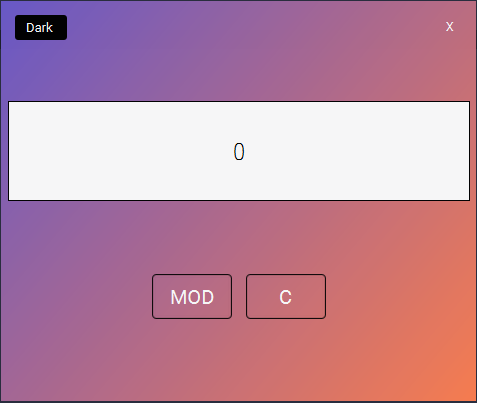
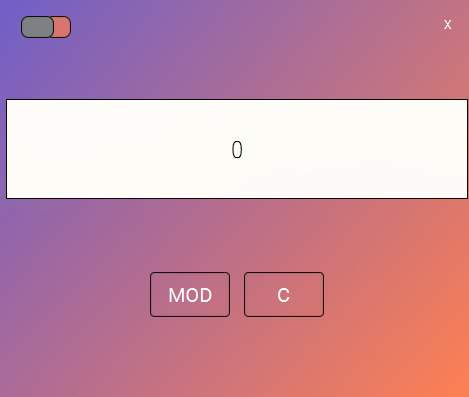
Toggle-switch added

diff --git a/src/modcalc/resources/style2.css b/src/modcalc/resources/style2.css
@@ -11,11 +11,19 @@
   -fx-font-family: "Roboto", sans-serif;
 }
 
-#Toggle.toggle-button {
-  -fx-background-color: transparent;
-  -fx-border-radius: 4;
-  -fx-text-fill: white;
-  -fx-font-family: "Roboto", sans-serif;
+#ToggleBackground {
+  -fx-arc-height: 15px;
+  -fx-arc-width: 15px;
+}
+
+#ToggleBackground2 {
+  -fx-arc-height: 15px;
+  -fx-arc-width: 15px;
+}
+
+#ToggleButton {
+  -fx-arc-height: 15px;
+  -fx-arc-width: 15px;
 }
 
 #Result.label {
@@ -58,8 +66,6 @@
   -fx-text-fill: #222831;
 }
 
-#Toggle.toggle-button:hover {
-  -fx-background-color: #eeeeee;
-  -fx-text-fill: #222831;
-  -fx-font-size: 11px;
+#ToggleButton:hover {
+  -fx-fill: rgb(105, 103, 103);
 }

diff --git a/src/modcalc/resources/style.css b/src/modcalc/resources/style.css
@@ -11,11 +11,19 @@
   -fx-font-family: "Roboto", sans-serif;
 }
 
-#Toggle.toggle-button {
-  -fx-background-color: black;
-  -fx-border-radius: 4;
-  -fx-text-fill: white;
-  -fx-font-family: "Roboto", sans-serif;
+#ToggleBackground {
+  -fx-arc-height: 15px;
+  -fx-arc-width: 15px;
+}
+
+#ToggleBackground2 {
+  -fx-arc-height: 15px;
+  -fx-arc-width: 15px;
+}
+
+#ToggleButton {
+  -fx-arc-height: 15px;
+  -fx-arc-width: 15px;
 }
 
 #Result {
@@ -61,8 +69,6 @@
   -fx-background-color: black;
 }
 
-#Toggle.toggle-button:hover {
-  -fx-background-color: white;
-  -fx-text-fill: black;
-  -fx-font-size: 11px;
+#ToggleButton:hover {
+  -fx-fill: rgb(105, 103, 103);
 }

diff --git a/src/modcalc/control/Controller.java b/src/modcalc/control/Controller.java
@@ -1,25 +1,28 @@
 package modcalc.control;
 
+import javafx.animation.TranslateTransition;
 import javafx.application.Platform;
 import javafx.fxml.FXML;
 import javafx.scene.control.Button;
 import javafx.scene.control.Label;
-import javafx.scene.control.ToggleButton;
 import javafx.scene.input.KeyCode;
 import javafx.scene.input.KeyEvent;
 import javafx.scene.input.MouseEvent;
 import javafx.scene.layout.AnchorPane;
+import javafx.scene.shape.Rectangle;
+import javafx.util.Duration;
 
 public class Controller {
 
     @FXML
     private Label output;
     @FXML
+    private Rectangle toggleButt;
+
+    @FXML
     private AnchorPane rootPane;
     @FXML
     private Button mod;
-    @FXML
-    private ToggleButton theme;
 
     private String result = "";
     private String input = "";
@@ -27,6 +30,7 @@ public class Controller {
     private String cssDark = this.getClass().getResource("/modcalc/resources/style2.css").toExternalForm();
     private String cssTemp = "";
     private int calc;
+    private TranslateTransition trans = new TranslateTransition(Duration.millis(200));
 
     public void inputKeys(KeyEvent event) {
 
@@ -59,24 +63,34 @@ public class Controller {
 
     }
 
-    public void changeTheme(MouseEvent mouseEvent) {
+    public void toggleButtonClicked(MouseEvent mouseEvent) {
+
+        // toggleButt.setTranslateX(toggleButt.getLayoutX() + 13);
 
         if (cssTemp.equals(cssLight) || cssTemp.equals("")) {
 
+            trans.setNode(toggleButt);
+            trans.setFromX(toggleButt.getLayoutX() - 22);
             cssTemp = cssDark;
             rootPane.getStylesheets().clear();
             rootPane.getStylesheets().add(cssDark);
+            trans.setToX(toggleButt.getLayoutX() - 2);
+            trans.play();
 
         } else {
 
+            trans.setNode(toggleButt);
+            trans.setFromX(toggleButt.getLayoutX());
             cssTemp = cssLight;
             rootPane.getStylesheets().clear();
             rootPane.getStylesheets().add(cssLight);
+            trans.setToX(toggleButt.getLayoutX() - 22);
+            trans.play();
         }
 
         System.out.println(cssTemp);
 
-        theme.setText((theme.getText().equals("Light") ? "Dark" : "Light"));
+        System.out.println("Pushed!");
 
     }
 

diff --git a/src/modcalc/main/App.java b/src/modcalc/main/App.java
@@ -24,8 +24,8 @@ public class App extends Application {
 
         root.setOnMousePressed(e -> {
 
-            yOffset = e.getScreenY();
-            xOffset = e.getScreenX();
+            xOffset = e.getSceneX();
+            yOffset = e.getSceneY();
 
             System.out.println(yOffset);
             System.out.println(xOffset);
@@ -34,8 +34,8 @@ public class App extends Application {
 
         root.setOnMouseDragged(e -> {
 
-            primaryStage.setX(e.getSceneX() + xOffset);
-            primaryStage.setY(e.getSceneY() + yOffset);
+            primaryStage.setX(e.getSceneX() - xOffset);
+            primaryStage.setY(e.getSceneY() - yOffset);
 
         });
 
